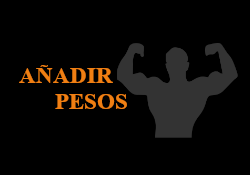
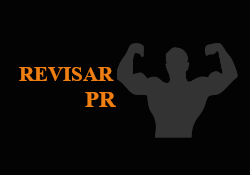
mostrar pr

Changed region(s): [[0.056, 0.3714, 0.476, 0.4857], [0.224, 0.5143, 0.504, 0.6286]]

diff --git a/lib/screens/user_screen.dart b/lib/screens/user_screen.dart
@@ -11,20 +11,42 @@ class UserScreen extends StatelessWidget {
   const UserScreen({Key? key}) : super(key: key);
   @override
   Widget build(BuildContext context) {
+    final size = MediaQuery.of(context).size;
     final authService = Provider.of<AuthService>(context, listen: false);
     return Padding(
       padding: const EdgeInsets.all(16.0),
-      child: TextButton(
-        onPressed: () {
-          authService.logout();
-          Navigator.pushReplacement(context,
-              PageRouteBuilder(pageBuilder: (_, __, ___) => LoginScreen()));
-        },
-        child: Text('Cerrar Sesion'),
-        style: TextButton.styleFrom(
-            backgroundColor: AppTheme.primaryBlue,
-            primary: Colors.white,
-            fixedSize: Size(MediaQuery.of(context).size.width, 16)),
+      child: Column(
+        mainAxisAlignment: MainAxisAlignment.spaceBetween,
+        children: [
+          Padding(
+            padding: const EdgeInsets.only(top: 26, left: 9, bottom: 26),
+            child: GestureDetector(
+                child: Container(
+                    width: size.width / 1.5,
+                    height: size.height / 5,
+                    child: ClipRRect(
+                      borderRadius: BorderRadius.circular(30),
+                      child: const Image(
+                        image: AssetImage('assets/pesos.png'),
+                        fit: BoxFit.cover,
+                      ),
+                    )),
+                onTap: () => Navigator.push(context,
+                    MaterialPageRoute(builder: (context) => RevisarPr()))),
+          ),
+          TextButton(
+            onPressed: () {
+              authService.logout();
+              Navigator.pushReplacement(context,
+                  PageRouteBuilder(pageBuilder: (_, __, ___) => LoginScreen()));
+            },
+            child: Text('Cerrar Sesion'),
+            style: TextButton.styleFrom(
+                backgroundColor: Colors.red,
+                primary: Colors.white,
+                fixedSize: Size(MediaQuery.of(context).size.width, 16)),
+          ),
+        ],
       ),
     );
   }

diff --git a/lib/screens/revisar_pr.dart b/lib/screens/revisar_pr.dart
@@ -1,0 +1,48 @@
+import 'package:flutter/material.dart';
+import 'package:get/get.dart';
+
+import '../models/models.dart';
+import '../theme/app_theme.dart';
+
+class RevisarPr extends StatelessWidget {
+  RevisarPr({Key? key}) : super(key: key);
+
+  final controller = Get.find<Listas>();
+  @override
+  Widget build(BuildContext context) {
+    return Scaffold(
+      backgroundColor: AppTheme.primaryDarkBlue,
+      appBar: PreferredSize(
+        preferredSize: Size.fromHeight(40.0),
+        child: AppBar(
+          backgroundColor: AppTheme.primaryBlue,
+          title: const Text('My Gym Bro'),
+          centerTitle: true,
+        ),
+      ),
+      body: ListView.builder(
+        itemCount: controller.prList.length,
+        shrinkWrap: true,
+        primary: false,
+        itemBuilder: (_, int index) {
+          return Padding(
+            padding: const EdgeInsets.symmetric(vertical: 16.0, horizontal: 50),
+            child: Row(
+              children: [
+                Text(
+                  controller.prList[index].nameEjercicio,
+                  style: TextStyle(color: Colors.white, fontSize: 20),
+                ),
+                Expanded(child: Container()),
+                Text(
+                  controller.prList[index].peso.toString() + 'Kg',
+                  style: TextStyle(color: Colors.white, fontSize: 20),
+                ),
+              ],
+            ),
+          );
+        },
+      ),
+    );
+  }
+}

diff --git a/lib/screens/screens.dart b/lib/screens/screens.dart
@@ -17,5 +17,6 @@ export 'package:my_gym_bro/screens/user_screen.dart';
 export 'package:my_gym_bro/screens/inicio_screen.dart';
 export 'package:my_gym_bro/screens/register_screen.dart';
 export 'package:my_gym_bro/screens/detalles_rutina.dart';
+export 'package:my_gym_bro/screens/revisar_pr.dart';
 
 export 'package:my_gym_bro/screens/check_auth_screen.dart';

diff --git a/lib/router/app_routes.dart b/lib/router/app_routes.dart
@@ -22,7 +22,7 @@ class AppRoutes {
         screen: const MeasureScreen()),
     MenuOption(
         route: 'peso',
-        image: AssetImage('assets/pesos.png'),
+        image: AssetImage('assets/crearpr.png'),
         icon: Icons.tab,
         name: 'Pesos Screen',
         screen: AddPrScreen()),
